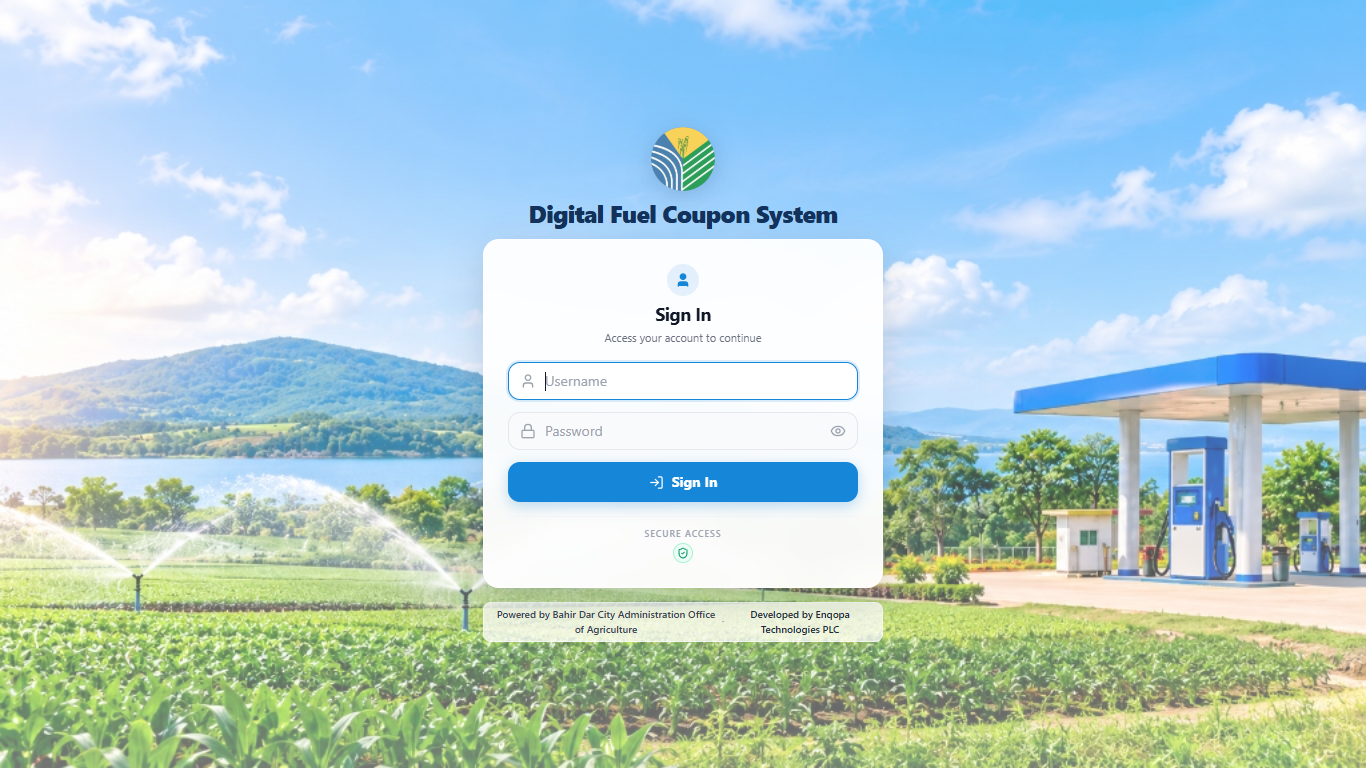
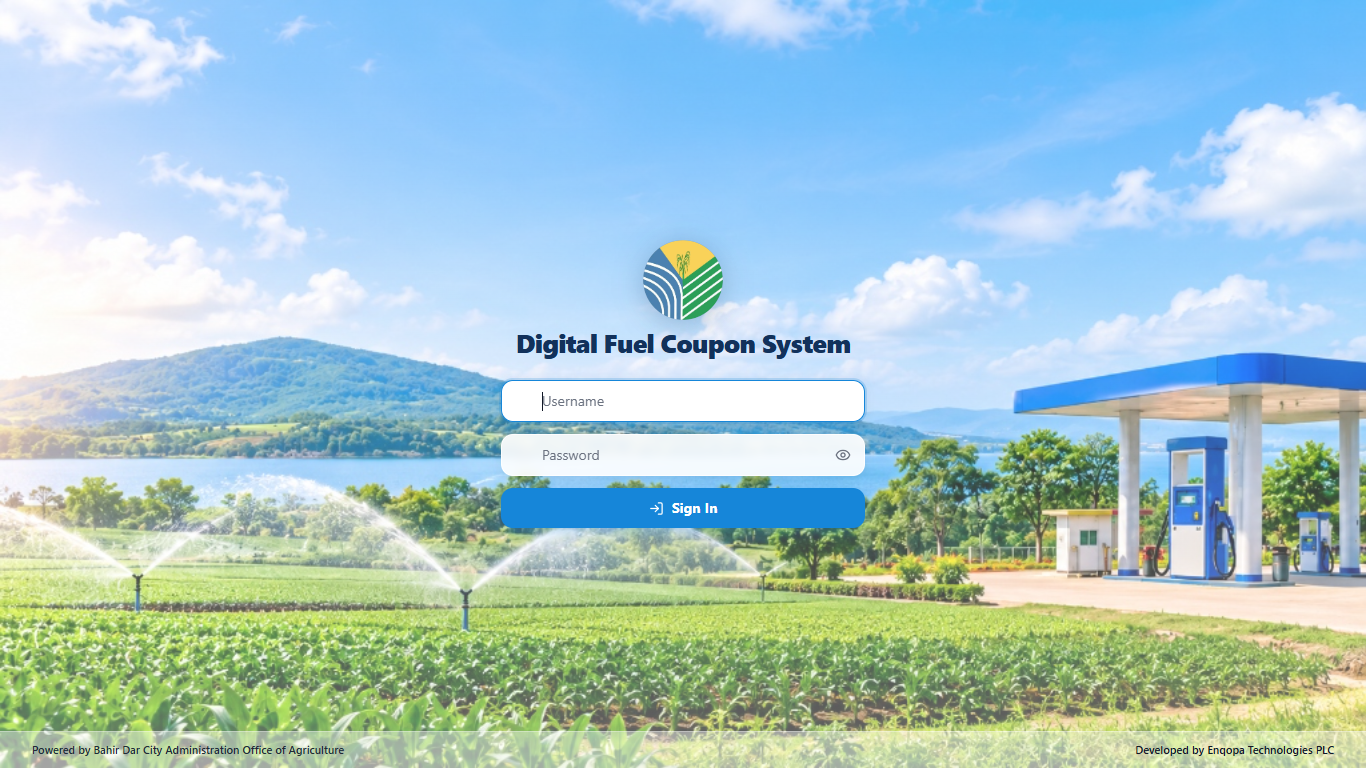
feat: make login card transparent and position credits at bottom left and right ends

Changed region(s): [[0.3382, 0.1562, 0.6457, 0.8438], [0.0, 0.9375, 1.0, 1.0]]

diff --git a/client/src/pages/LoginPage.tsx b/client/src/pages/LoginPage.tsx
@@ -39,18 +39,18 @@ export const LoginPage: React.FC = () => {
 
   return (
     <div
-      className="min-h-screen h-screen w-full relative flex flex-col justify-center items-center py-3 px-4 bg-cover bg-center bg-no-repeat selection:bg-blue-100 selection:text-blue-900 overflow-hidden"
+      className="min-h-screen h-screen w-full relative flex flex-col justify-center items-center py-4 px-4 bg-cover bg-center bg-no-repeat selection:bg-blue-100 selection:text-blue-900 overflow-hidden"
       style={{ backgroundImage: "url('/branding/login-bg.jpg')" }}
     >
       {/* Subtle translucent overlay for perfect contrast while keeping the landscape vivid */}
-      <div className="absolute inset-0 bg-gradient-to-b from-white/35 via-white/20 to-white/45 pointer-events-none" />
+      <div className="absolute inset-0 bg-gradient-to-b from-white/30 via-white/15 to-white/40 pointer-events-none" />
 
       {/* Main Centered Column */}
-      <div className="w-full max-w-[400px] my-auto relative z-10 flex flex-col items-center">
+      <div className="w-full max-w-[360px] sm:max-w-[380px] my-auto relative z-10 flex flex-col items-center">
         {/* ================= Institutional Branding Header (Logo & Single-Line Title) ================= */}
-        <div className="text-center mb-2.5 flex flex-col items-center">
-          {/* 1. Real SVG Logo Emblem - Compact */}
-          <div className="w-14 h-14 sm:w-16 sm:h-16 mb-1.5 drop-shadow-[0_4px_12px_rgba(18,49,91,0.2)] transition-transform hover:scale-105 duration-300">
+        <div className="text-center mb-6 flex flex-col items-center">
+          {/* 1. Real SVG Logo Emblem */}
+          <div className="w-16 h-16 sm:w-20 sm:h-20 mb-2.5 drop-shadow-[0_4px_14px_rgba(18,49,91,0.25)] transition-transform hover:scale-105 duration-300">
             <img
               src="/branding/irfa-mark.svg"
               alt="Digital Fuel Coupon System Emblem"
@@ -61,27 +61,19 @@ export const LoginPage: React.FC = () => {
             />
           </div>
 
-          {/* 2. Digital Fuel Coupon System Title - Guaranteed Single Line */}
-          <h1 className="text-xl sm:text-2xl font-black text-[#12315B] tracking-tight leading-tight text-center drop-shadow-xs whitespace-nowrap">
+          {/* 2. Digital Fuel Coupon System Title - Single Line */}
+          <h1 className="text-2xl sm:text-[26px] font-black text-[#12315B] tracking-tight leading-none text-center drop-shadow-xs whitespace-nowrap">
             Digital Fuel Coupon System
           </h1>
         </div>
 
-        {/* ================= Single Compact White Login Card ================= */}
-        <div className="w-full bg-white/95 backdrop-blur-md border border-white/90 rounded-2xl shadow-[0_12px_36px_rgba(16,40,75,0.16)] p-5 sm:p-6">
-          <div className="text-center mb-4">
-            <div className="inline-flex items-center justify-center w-8 h-8 rounded-full bg-[#1686D9]/10 text-[#1686D9] mb-1 shadow-xs">
-              <User size={16} className="fill-[#1686D9]" />
-            </div>
-            <h3 className="text-base sm:text-lg font-bold text-gray-900 tracking-tight">Sign In</h3>
-            <p className="text-[11px] text-gray-500 mt-0.5">Access your account to continue</p>
-          </div>
-
+        {/* ================= Transparent Login Form Container ================= */}
+        <div className="w-full px-2">
           {/* Error Alert */}
           {error && (
             <div
               role="alert"
-              className="mb-3.5 p-2.5 bg-red-50 border border-red-200 rounded-xl text-red-700 text-xs flex items-start gap-2 shadow-xs"
+              className="mb-3.5 p-2.5 bg-red-50/95 backdrop-blur-xs border border-red-200 rounded-xl text-red-700 text-xs flex items-start gap-2 shadow-sm"
             >
               <AlertCircle size={14} className="text-red-600 shrink-0 mt-0.5" />
               <span className="leading-tight font-medium">{error}</span>
@@ -99,7 +91,7 @@ export const LoginPage: React.FC = () => {
                 Username
               </label>
               <div className="relative">
-                <div className="absolute inset-y-0 left-0 pl-3 flex items-center pointer-events-none text-gray-400">
+                <div className="absolute inset-y-0 left-0 pl-3.5 flex items-center pointer-events-none text-gray-500">
                   <User size={16} />
                 </div>
                 <input
@@ -112,7 +104,7 @@ export const LoginPage: React.FC = () => {
                   onChange={(e) => setUsername(e.target.value)}
                   placeholder="Username"
                   disabled={loading}
-                  className="w-full pl-9 pr-3 py-2 bg-[#f8fafc] border border-gray-200 rounded-xl text-xs sm:text-sm text-gray-900 placeholder:text-gray-400 focus:outline-none focus:border-[#1686D9] focus:bg-white focus:ring-2 focus:ring-[#1686D9]/15 transition-all shadow-xs"
+                  className="w-full pl-10 pr-3.5 py-2.5 bg-white/90 hover:bg-white focus:bg-white backdrop-blur-sm border border-white/80 focus:border-[#1686D9] rounded-xl text-xs sm:text-sm text-gray-900 placeholder:text-gray-500 focus:outline-none focus:ring-2 focus:ring-[#1686D9]/20 transition-all shadow-[0_2px_10px_rgba(0,0,0,0.06)]"
                 />
               </div>
             </div>
@@ -126,7 +118,7 @@ export const LoginPage: React.FC = () => {
                 Password
               </label>
               <div className="relative">
-                <div className="absolute inset-y-0 left-0 pl-3 flex items-center pointer-events-none text-gray-400">
+                <div className="absolute inset-y-0 left-0 pl-3.5 flex items-center pointer-events-none text-gray-500">
                   <Lock size={16} />
                 </div>
                 <input
@@ -138,14 +130,14 @@ export const LoginPage: React.FC = () => {
                   onChange={(e) => setPassword(e.target.value)}
                   placeholder="Password"
                   disabled={loading}
-                  className="w-full pl-9 pr-9 py-2 bg-[#f8fafc] border border-gray-200 rounded-xl text-xs sm:text-sm text-gray-900 placeholder:text-gray-400 focus:outline-none focus:border-[#1686D9] focus:bg-white focus:ring-2 focus:ring-[#1686D9]/15 transition-all shadow-xs"
+                  className="w-full pl-10 pr-10 py-2.5 bg-white/90 hover:bg-white focus:bg-white backdrop-blur-sm border border-white/80 focus:border-[#1686D9] rounded-xl text-xs sm:text-sm text-gray-900 placeholder:text-gray-500 focus:outline-none focus:ring-2 focus:ring-[#1686D9]/20 transition-all shadow-[0_2px_10px_rgba(0,0,0,0.06)]"
                 />
                 <button
                   type="button"
                   tabIndex={-1}
                   onClick={() => setShowPassword(!showPassword)}
                   aria-label={showPassword ? 'Hide password' : 'Show password'}
-                  className="absolute inset-y-0 right-0 pr-3 flex items-center text-gray-400 hover:text-gray-600 transition-colors"
+                  className="absolute inset-y-0 right-0 pr-3.5 flex items-center text-gray-500 hover:text-gray-800 transition-colors"
                 >
                   {showPassword ? <EyeOff size={16} /> : <Eye size={16} />}
                 </button>
@@ -156,7 +148,7 @@ export const LoginPage: React.FC = () => {
             <button
               type="submit"
               disabled={loading}
-              className="w-full mt-1 py-2.5 px-4 bg-[#1686D9] hover:bg-[#1173bd] active:bg-[#0d5ca8] text-white rounded-xl text-xs sm:text-sm font-bold transition-all shadow-[0_4px_14px_rgba(22,134,217,0.3)] hover:shadow-[0_6px_18px_rgba(22,134,217,0.4)] disabled:opacity-50 disabled:cursor-not-allowed flex items-center justify-center gap-2 cursor-pointer"
+              className="w-full mt-2 py-2.5 px-4 bg-[#1686D9] hover:bg-[#1173bd] active:bg-[#0d5ca8] text-white rounded-xl text-xs sm:text-sm font-bold transition-all shadow-[0_4px_16px_rgba(22,134,217,0.35)] hover:shadow-[0_6px_20px_rgba(22,134,217,0.45)] disabled:opacity-50 disabled:cursor-not-allowed flex items-center justify-center gap-2 cursor-pointer"
             >
               {loading ? (
                 <>
@@ -171,27 +163,18 @@ export const LoginPage: React.FC = () => {
               )}
             </button>
           </form>
-
-          {/* Secure Access Indicator */}
-          <div className="mt-3.5 pt-2.5 border-t border-gray-100 flex flex-col items-center justify-center gap-0.5">
-            <span className="text-[9px] font-semibold text-gray-400 uppercase tracking-widest">
-              Secure Access
-            </span>
-            <div className="w-5 h-5 rounded-full bg-emerald-50 text-emerald-600 border border-emerald-200 grid place-items-center shadow-xs">
-              <ShieldCheck size={12} />
-            </div>
-          </div>
         </div>
-
-        {/* ================= Compact Footer Credits ================= */}
-        <footer className="w-full text-center mt-3 select-text">
-          <div className="inline-flex items-center justify-center gap-1.5 text-[10px] text-gray-700 bg-white/75 backdrop-blur-xs px-3 py-1 rounded-lg shadow-xs border border-white/50">
-            <span className="font-medium">Powered by Bahir Dar City Administration Office of Agriculture</span>
-            <span className="text-gray-400">·</span>
-            <span className="font-semibold text-gray-800">Developed by Enqopa Technologies PLC</span>
-          </div>
-        </footer>
       </div>
+
+      {/* ================= Bottom End Credits (Left & Right Ends) ================= */}
+      <footer className="absolute bottom-0 inset-x-0 w-full px-5 sm:px-8 py-2.5 flex flex-col sm:flex-row items-center justify-between gap-1 text-[11px] font-medium text-gray-800 bg-white/40 backdrop-blur-xs select-text border-t border-white/30 z-20">
+        <div className="drop-shadow-2xs">
+          Powered by Bahir Dar City Administration Office of Agriculture
+        </div>
+        <div className="drop-shadow-2xs font-semibold text-gray-900">
+          Developed by Enqopa Technologies PLC
+        </div>
+      </footer>
     </div>
   );
 };
